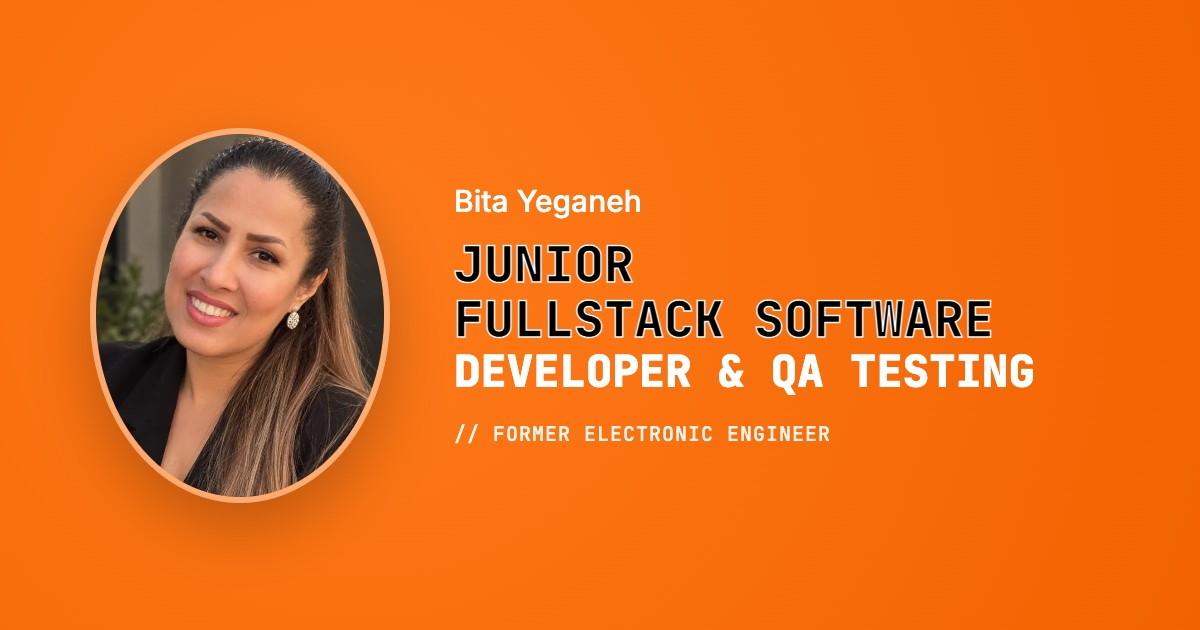
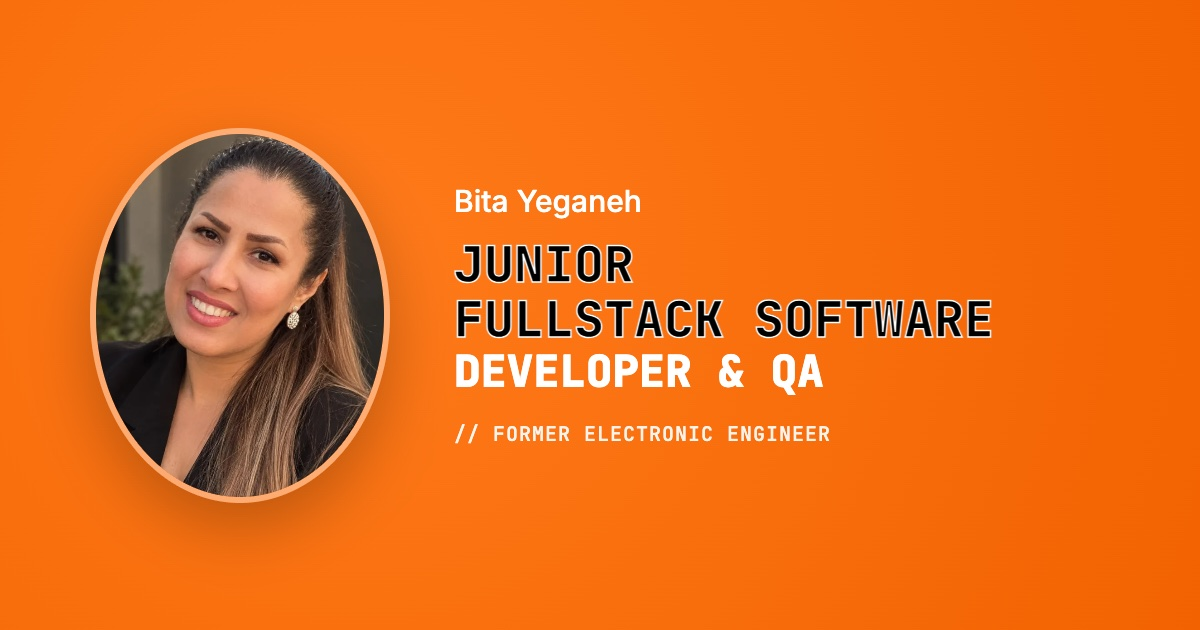
Shorten title to "Developer & QA" across hero, meta tags and preview image

Changed region(s): [[0.7092, 0.5429, 0.8633, 0.6333]]

diff --git a/index.html b/index.html
@@ -4,19 +4,19 @@
     <meta charset="UTF-8" />
     <link rel="icon" type="image/svg+xml" href="/favicon.svg" />
     <meta name="viewport" content="width=device-width, initial-scale=1.0" />
-    <title>Bita Yeganeh | Junior Full-Stack Developer & QA Tester</title>
-    <meta name="description" content="Portfolio of Bita Yeganeh, a junior full-stack developer and QA tester building and testing secure, scalable web applications with React and Node.js." />
+    <title>Bita Yeganeh | Junior Full-Stack Developer & QA</title>
+    <meta name="description" content="Portfolio of Bita Yeganeh, a junior full-stack developer with a QA background, building secure, scalable web applications with React and Node.js." />
     <meta name="author" content="Bita Yeganeh" />
 
     <!-- Social sharing previews -->
     <meta property="og:type" content="website" />
     <meta property="og:url" content="https://myportfolio-u7mw.onrender.com/" />
-    <meta property="og:title" content="Bita Yeganeh | Junior Full-Stack Developer & QA Tester" />
+    <meta property="og:title" content="Bita Yeganeh | Junior Full-Stack Developer & QA" />
     <meta property="og:description" content="Secure, scalable web applications that bridge engineering and design." />
     <meta property="og:image" content="https://myportfolio-u7mw.onrender.com/images/og-image.jpg" />
     <meta property="og:image:width" content="1200" />
     <meta property="og:image:height" content="630" />
-    <meta property="og:image:alt" content="Bita Yeganeh, Junior Full-Stack Software Developer and QA Testing" />
+    <meta property="og:image:alt" content="Bita Yeganeh, Junior Full-Stack Software Developer and QA" />
     <meta name="twitter:card" content="summary_large_image" />
     <meta name="twitter:image" content="https://myportfolio-u7mw.onrender.com/images/og-image.jpg" />
 

diff --git a/src/components/Hero.jsx b/src/components/Hero.jsx
@@ -95,7 +95,7 @@ const Hero = () => {
               <h1 className={styles.title}>
                 <span>JUNIOR</span>
                 <span>FULLSTACK SOFTWARE</span>
-                <span>DEVELOPER &amp; QA TESTING</span>
+                <span>DEVELOPER &amp; QA</span>
               </h1>
             </div>
             
@@ -106,7 +106,7 @@ const Hero = () => {
             >
               <img 
                 src="/images/profile.webp"
-                alt="Bita Yeganeh - Junior Full-Stack Developer & QA Tester"
+                alt="Bita Yeganeh - Junior Full-Stack Developer & QA"
                 className={styles.profileImage}
                 fetchPriority="high"
               />
